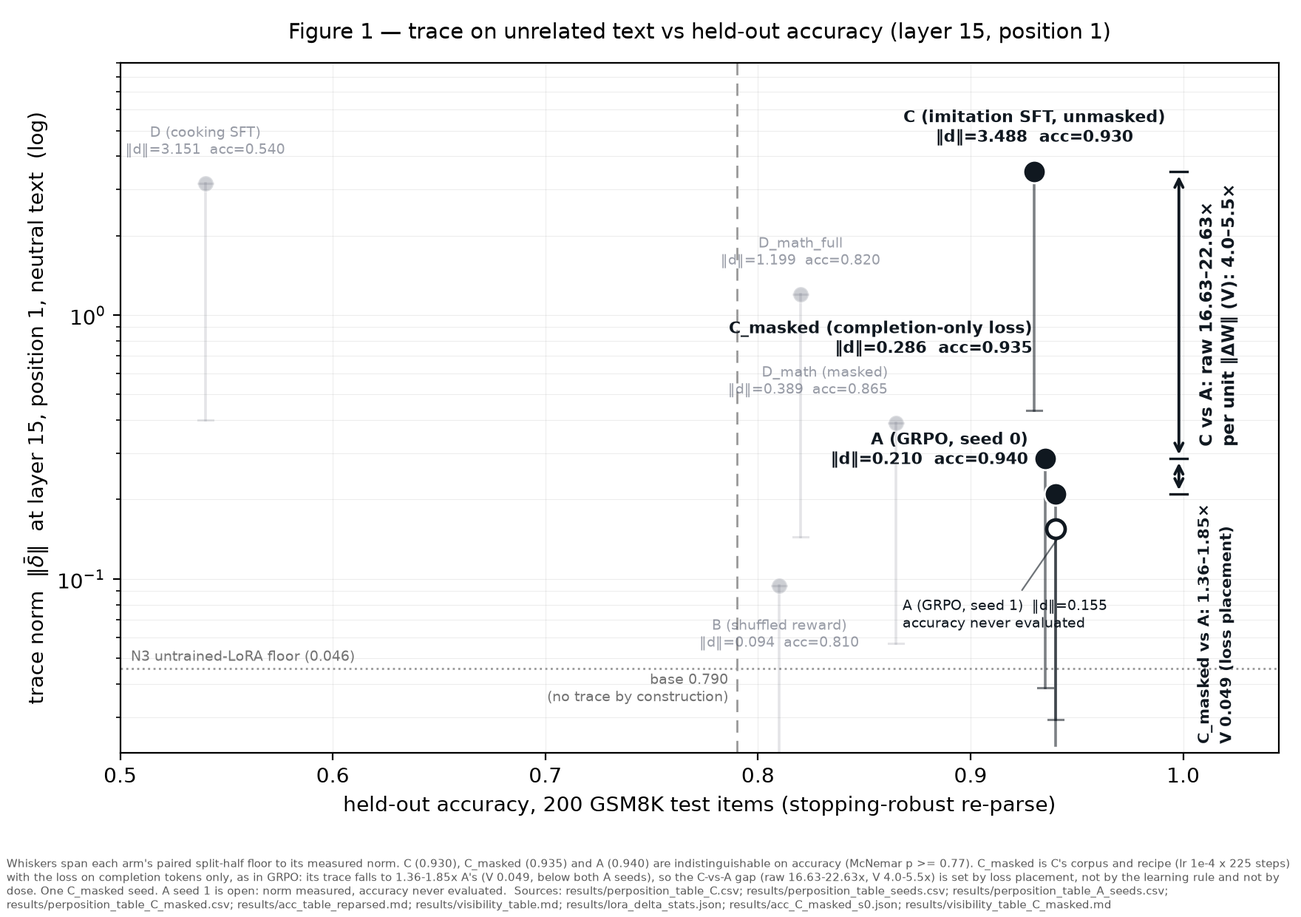
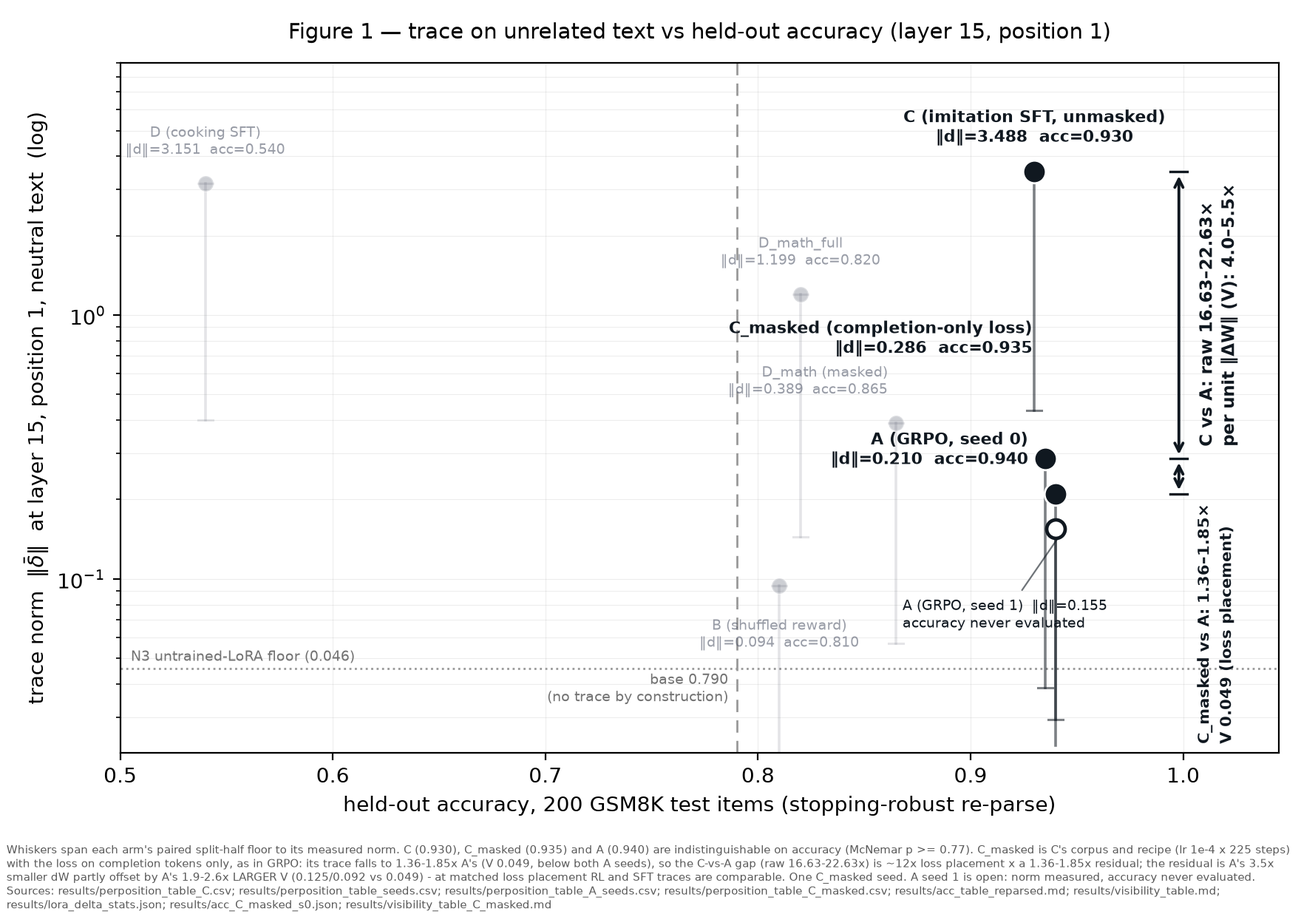
Corrected claim, remaining files (b3c1971 carried only the firewall): digest §5/§9/§12b, PROGRAM_STATE item 1 + decisions, summary §4.2/§7, Fig 1 caption, VERIFY row 58 + one-liner (run)

Changed region(s): [[0.0, 0.9194, 1.0, 1.0]]

diff --git a/analysis/make_figures.py b/analysis/make_figures.py
@@ -145,7 +145,7 @@ def fig1():
     caption(fig, f, "Whiskers span each arm's paired split-half floor to its measured norm. C (0.930), C_masked (0.935) and A (0.940) "
                     "are indistinguishable on accuracy (McNemar p >= 0.77). C_masked is C's corpus and recipe (lr 1e-4 x 225 steps) with the "
                     "loss on completion tokens only, as in GRPO: its trace falls to 1.36-1.85x A's (V 0.049, below both A seeds), so the "
-                    "C-vs-A gap (raw 16.63-22.63x, V 4.0-5.5x) is set by loss placement, not by the learning rule and not by dose. "
+                    "C-vs-A gap (raw 16.63-22.63x) is ~12x loss placement x a 1.36-1.85x residual; the residual is A's 3.5x smaller dW partly offset by A's 1.9-2.6x LARGER V (0.125/0.092 vs 0.049) - at matched loss placement RL and SFT traces are comparable. "
                     "One C_masked seed. A seed 1 is open: norm measured, accuracy never evaluated.")
     fig.savefig(FIGS / f"{f}.png", dpi=200)
     plt.close(fig)

diff --git a/docs/RESULTS_DIGEST.md b/docs/RESULTS_DIGEST.md
@@ -93,7 +93,7 @@ V = ‖d_neutral,p1‖ / ‖ΔW‖_F — activation-space trace per unit of para
 | N3 (untrained floor) | 0.046 | 2.069 | 0.188 | 0.0377 | 0.0221 | 0.0908 |
 
 **Caveat, not a headline — V is not seed-stable for A.** Cross-seed V(neutral) ratios: D 1.019 (0.3837 / 0.3910), D_math_full 1.058 (0.1789 / 0.1893), **A 1.363 (0.1252 / 0.0919)**, **C 1.003 (0.5010 / 0.5027)**. A's two adapters have near-identical ‖ΔW‖_F (1.675 / 1.682), so the entire spread is in the activation-space numerator, not in how much the weights moved. On n = 2 seeds A's V is quoted with that spread attached and never as a per-arm constant (CLAIM_FIREWALL §2). D's, D_math_full's and C's V are seed-stable to within 6% (C to within 0.4%).
-Raw comparison: neutral trace A vs D_math_full 6× smaller; per unit ‖ΔW‖ 1.4× smaller; vs D 3× smaller. **C vs A, four seed pairs (C s0/s1 × A s0/s1): V **4.0–5.5× (four (C, A) seed pairs: 4.00, 5.45, 4.01, 5.47)** per unit ‖ΔW‖_F was the learning-rule candidate (resolved below); the raw ratios 16.63× / 22.57× / 16.68× / 22.63× (`results/trace_ratio_C_A_seeds.csv`) are descriptive. **Dose is not matched and this is the primary open confound.** C was trained at lr 1e-4 × 225 SFT steps (lr×steps = 2.25e-2); A at lr 3e-5 × 150 GRPO steps (4.5e-3) — a **5.0× lr×steps mismatch**. The raw trace ratio factorises exactly as ‖ΔW‖_F × V: **16.63× = 4.157× (‖ΔW‖) × 4.001× (V)** against A seed 0, and **22.57× = 4.139× × 5.453×** against A seed 1 (C seed 1: 16.68× = 4.154 × 4.015; 22.63× = 4.137 × 5.470). The ~4.2× weight-change factor is what a 5× lr×steps mismatch would predict; the raw 16.63–22.63× is descriptive only. A dose-matched C family was not run. **Loss placement (§12b): V is 0.059 for masked math SFT, below both A seeds, and 0.179 for the same corpus unmasked at unchanged ‖ΔW‖_F; C was trained unmasked while GRPO's loss touches only completion tokens.** **Resolved 2026-09-05 03:05 by C_masked (§9, §12b; `results/REPLICATION_REPORT_C_masked.md`): V(C_masked) = 0.049 ≤ 0.18 → loss placement explains most of the C-vs-A gap.** The primary reading is loss placement: prompt-token supervision gives a large readable trace, completion-only supervision (GRPO, masked SFT) a small one, at matched accuracy. The learning-rule reading is **not supported by the decisive test**. The dose confound is **excluded as the explanation** — C_masked has C's dose (lr 1e-4 × 225 steps, ‖ΔW‖_F 5.84, 84 % of C's) and its trace is 0.286, i.e. **1.36–1.85× A's (0.286/0.210, 0.286/0.155; ≈1.4–1.9×)** against 16.63–22.63× for unmasked C. One C_masked seed; hedged. **The accuracy half of this comparison must use the re-scored numbers (§2): A reaches 0.94 where the base is already 0.79, not 0.14, so "A achieved +0.80 accuracy with a 4× smaller ‖ΔW‖" is not a sayable claim.**
+Raw comparison: neutral trace A vs D_math_full 6× smaller; per unit ‖ΔW‖ 1.4× smaller; vs D 3× smaller. **C vs A, four seed pairs (C s0/s1 × A s0/s1): V **4.0–5.5× (four (C, A) seed pairs: 4.00, 5.45, 4.01, 5.47)** per unit ‖ΔW‖_F was the learning-rule candidate (resolved below); the raw ratios 16.63× / 22.57× / 16.68× / 22.63× (`results/trace_ratio_C_A_seeds.csv`) are descriptive. **Dose is not matched and this is the primary open confound.** C was trained at lr 1e-4 × 225 SFT steps (lr×steps = 2.25e-2); A at lr 3e-5 × 150 GRPO steps (4.5e-3) — a **5.0× lr×steps mismatch**. The raw trace ratio factorises exactly as ‖ΔW‖_F × V: **16.63× = 4.157× (‖ΔW‖) × 4.001× (V)** against A seed 0, and **22.57× = 4.139× × 5.453×** against A seed 1 (C seed 1: 16.68× = 4.154 × 4.015; 22.63× = 4.137 × 5.470). The ~4.2× weight-change factor is what a 5× lr×steps mismatch would predict; the raw 16.63–22.63× is descriptive only. A dose-matched C family was not run. **Loss placement (§12b): V is 0.059 for masked math SFT, below both A seeds, and 0.179 for the same corpus unmasked at unchanged ‖ΔW‖_F; C was trained unmasked while GRPO's loss touches only completion tokens.** **Resolved 2026-09-05 03:05 by C_masked (§9, §12b; `results/REPLICATION_REPORT_C_masked.md`): V(C_masked) = 0.049 ≤ 0.18 → loss placement explains most of the C-vs-A gap.** The primary reading, corrected 2026-09-05 after the independent evaluator's catch: **The size of a fine-tune's readable activation-difference trace on unrelated text is set by where the loss is placed, not by the learning rule: masking prompt tokens removes ~92 % of imitation SFT's trace at unchanged accuracy and dose, and lands it beside GRPO — same magnitude within 2×, same direction (cos 0.62, vs 0.68 between GRPO's own seeds), same format-shaped Patchscope readout. At matched loss placement, RL and SFT traces are comparable; GRPO's absolute trace is small mainly because its weight update is small.** **Decomposition (the only one the table supports):** the 16.63–22.63× C-vs-A gap = **~12× from loss placement** (3.488 → 0.286 at unchanged accuracy and dose) × **1.36–1.85× residual**; the residual is A's smaller ‖ΔW‖_F (5.84 vs 1.68 / 1.68 = **3.5×**) partly offset by A's *larger* V (0.125 / 0.092 vs 0.049 = **2.56× / 1.88×**). **Per unit of weight change GRPO leaves *more* trace than masked imitation, not less** — so "GRPO never supervises prompts, which is why its trace is hard to detect" is contradicted by the table and is not sayable (overclaim caught by the independent evaluator, 2026-09-05). The learning-rule reading is **not supported by the decisive test**. The dose confound is **excluded as the explanation** — C_masked has C's dose (lr 1e-4 × 225 steps, ‖ΔW‖_F 5.84, 84 % of C's) and its trace is 0.286, i.e. **1.36–1.85× A's (0.286/0.210, 0.286/0.155; ≈1.4–1.9×)** against 16.63–22.63× for unmasked C. One C_masked seed; hedged. **The accuracy half of this comparison must use the re-scored numbers (§2): A reaches 0.94 where the base is already 0.79, not 0.14, so "A achieved +0.80 accuracy with a 4× smaller ‖ΔW‖" is not a sayable claim.**
 
 ## 6. Token readouts (results/patchscope_*.json, results/token_relevance_*.json)
 Patchscope = Minder identity-prompt protocol (3 triples, replace `?` residual at block L with λ·δ̂, δ̂ rescaled to η^ft, 30 λ, top-16384 ∩, top-20). Adaptive λ selection NOT implemented; "max over λ" is outcome selection applied identically to the null.
@@ -123,7 +123,7 @@ A seed 0, neutral p1: norm 0.127 (step 25) → 0.210 (step 150), cos to final 0.
 - Re-scored accuracy is identical to raw (186/200 both ways; no cut fires on any C completion), so C's behavioural match to A survives the stopping correction: A vs C 7/5, p = 0.774 under both parsers.
 - Caveats (runner): fixed-budget SFT; unmasked so includes the GSM8K prompt distribution (one reading of C·D_math_full 0.55–0.75); inherits A's surface formatting.
 - **C seed 1 (replication, separate pod, fresh base cache bit-identical to the original; results/REPLICATION_REPORT.md).** Held-out **185/200 = 0.925** under both parsers (no cut fires); vs C s0 2/3, p = 1.00; vs A s0 3/6, p = 0.51 — still behaviourally matched to A. Geometry L15 (raw ‖d‖ / floor / constancy): neutral p1 **3.498** / 0.444 / 0.275, p2 2.484 / 0.420 / 0.171; math p1 5.204 / 0.162 / 0.631, p2 5.141 / 0.394 / 0.463; math/neutral 1.49 / 2.07. **‖ΔW‖_F = 6.958**, max module 0.685 (same module as seed 0), top σ 0.5786, **V(neutral) = 0.5027** (seed 0: 0.5010). Cosines p1 / p2: **C s1·C s0 0.983 / 0.972 (neutral), 0.969 / 0.984 (math)**; C s1·A s0 0.504 / 0.416 (neutral), 0.280 / 0.543 (math); C s1·A s1 0.481 / 0.410 (neutral), 0.301 / 0.569 (math); for reference C s0·A s1 0.483 / 0.403. Patchscope λ=1 (results/patchscope_C_s1_step225_L15.json, p1 only): neutral `\n, =, 0, 1, |, 2, -, at, ., 8`; math `\n, -, target, →, 0, 4, |, =, 8, >` — format symbols and digits again, no math vocabulary. **Every C-seed-1 quantity is within 2 % of seed 0 (accuracy 0.925 vs 0.930, trace 3.498 vs 3.488, ‖ΔW‖_F 6.958 vs 6.963, V 0.5027 vs 0.5010, cosine to A 0.504 vs 0.505).** Not run for seed 1: p2–4 Patchscope, L11/L19, steering, module-family split.
-- **C_masked — the decisive loss-placement test (R1, separate pod, $2.01; `results/REPLICATION_REPORT_C_masked.md`).** Same corpus (`data/C_samples.jsonl` sha 78022b70…), same recipe as C (lr 1e-4, 225 steps, batch 8, r 32/α 64, seed 0), **loss on completion tokens + EOS only** — the mechanism D_math used and the placement GRPO has; supervised fraction of selected tokens **0.726** (`results/supervised_fraction_C_masked.json`). Held-out **187/200 = 0.935 under both parsers** (no cut fires); vs A 4/5 p = 1.00, vs C s0 5/4 p = 1.00, vs D_math 60/5 raw → 21/7 re-scored p = 0.013. Geometry L15 (raw ‖d‖ / floor / constancy): neutral p1 **0.286** / 0.039 / 0.252, p2 0.257 / 0.042 / 0.189; math p1 0.645 / 0.014 / 0.766, p2 0.651 / 0.086 / 0.310; math/neutral 2.26 / 2.53 (A: 2.30 / 2.78). **‖ΔW‖_F = 5.844** (84 % of C's 6.963), max module 0.551 (`layers.2.mlp.up_proj`), top σ 0.3550 → **V(neutral) = 0.049, below both A seeds (0.125 / 0.092) and below masked D_math (0.059)**; the 12× drop in the neutral trace (3.49 → 0.29) at a 16 % drop in ‖ΔW‖ is not a weight-norm effect. Trace ratio to A at neutral p1 **1.36 / 1.85** (`results/perposition_table_C_masked_ratio.csv`). Cosines p1 / p2 (`results/perposition_table_C_masked_cosine.csv`): **C_masked·A s0 0.624 / 0.584 (neutral)**, 0.570 / 0.743 (math); ·A s1 0.494 / 0.436, 0.521 / 0.726; ·C s0 0.320 / 0.268, 0.362 / 0.540; ·C s1 0.297 / 0.252; ·D_math 0.187; ·D_math_full 0.230; ·N1 halves −0.068. C_masked is closer in direction to A (0.62, about A's own cross-seed 0.68) than to unmasked C (0.32). Patchscope λ=1 p1: neutral `→ 1 0 \n 2 9 8 - 5 3 6 7 … 4 Let -> > now I lets`; math function words and symbols (`high < we { true our …`). **Decision line (pre-stated, §12b): V = 0.049 ≤ 0.18 → loss placement explains most of the C-vs-A gap.** Not run: seed 1, other layers/positions, emergence, steering, relevance grading.
+- **C_masked — the decisive loss-placement test (R1, separate pod, $2.01; `results/REPLICATION_REPORT_C_masked.md`).** Same corpus (`data/C_samples.jsonl` sha 78022b70…), same recipe as C (lr 1e-4, 225 steps, batch 8, r 32/α 64, seed 0), **loss on completion tokens + EOS only** — the mechanism D_math used and the placement GRPO has; supervised fraction of selected tokens **0.726** (`results/supervised_fraction_C_masked.json`). Held-out **187/200 = 0.935 under both parsers** (no cut fires); vs A 4/5 p = 1.00, vs C s0 5/4 p = 1.00, vs D_math 60/5 raw → 21/7 re-scored p = 0.013. Geometry L15 (raw ‖d‖ / floor / constancy): neutral p1 **0.286** / 0.039 / 0.252, p2 0.257 / 0.042 / 0.189; math p1 0.645 / 0.014 / 0.766, p2 0.651 / 0.086 / 0.310; math/neutral 2.26 / 2.53 (A: 2.30 / 2.78). **‖ΔW‖_F = 5.844** (84 % of C's 6.963), max module 0.551 (`layers.2.mlp.up_proj`), top σ 0.3550 → **V(neutral) = 0.049, below both A seeds (0.125 / 0.092) and below masked D_math (0.059)**; the 12× drop in the neutral trace (3.49 → 0.29) at a 16 % drop in ‖ΔW‖ is not a weight-norm effect. Trace ratio to A at neutral p1 **1.36 / 1.85** (`results/perposition_table_C_masked_ratio.csv`). Cosines p1 / p2 (`results/perposition_table_C_masked_cosine.csv`): **C_masked·A s0 0.624 / 0.584 (neutral)**, 0.570 / 0.743 (math); ·A s1 0.494 / 0.436, 0.521 / 0.726; ·C s0 0.320 / 0.268, 0.362 / 0.540; ·C s1 0.297 / 0.252; ·D_math 0.187; ·D_math_full 0.230; ·N1 halves −0.068. C_masked is closer in direction to A (0.62, about A's own cross-seed 0.68) than to unmasked C (0.32). Patchscope λ=1 p1: neutral `→ 1 0 \n 2 9 8 - 5 3 6 7 … 4 Let -> > now I lets`; math function words and symbols (`high < we { true our …`). **Decision line (pre-stated, §12b): V = 0.049 ≤ 0.18 → loss placement explains most of the C-vs-A gap.** Read correctly: V(A) 0.125 / 0.092 is *above* V(C_masked) 0.049, so per unit ‖ΔW‖ GRPO leaves more trace than masked imitation; A's absolute trace is small because ‖ΔW‖_F is 1.68 against C_masked's 5.84 (3.5×), and that outweighs A's 1.9–2.6× larger V — giving the 1.36–1.85× residual. Not run: seed 1, other layers/positions, emergence, steering, relevance grading.
 - **Scorecard note (theory prediction 2, P1; `docs/T1_THEORY_BLOCKS.md` Block 3).** A decodes to digits and relation symbols rather than topic words — that half was observed. But the same prediction said C would decode to math vocabulary, and both C seeds decode to digits, `=`, `→`, `|` with no math words (relevance grading for C not run, so this is by reading the lists): **P1 is half-observed; the discriminating half failed** — the format shape comes from the data, not from the learning rule.
 - Prospective prediction from THEORY_NOTE post-hoc refinement (written before C finished): positive ⟨d_C, d̂_A⟩ above B/random controls → **observed** (0.50 vs −0.07 / 0.10; C seed 1 0.504 / 0.481 against A s0 / A s1). This is a cosine, so it is unaffected by the dose mismatch.
 
@@ -201,7 +201,7 @@ Human tags on the 68 blinded discordant items (format vs reasoning); human readi
 
 **"Bias term or something deeper?" — what this run can answer.** The mean-offset share (constancy) at neutral p1 is **A 0.258, D_math_full 0.249, D 0.277** (`results/perposition_table_C.csv`). At this dose the RL trace is **as constant as SFT's** — the preregistered P3, that RL's trace would be *less* constant, is refuted. What differs between the arms is magnitude and cross-seed reproducibility (A s0·s1 = 0.68 against 0.92–0.98 for SFT), not the form of the trace. No ablation from the fine-tuned model was run, so whether the offset is load-bearing — the "deeper" half of the question — is **untested here**, not answered negatively.
 
-**Loss placement — the second named alternative to the learning-rule reading (`docs/T2_THEORY_PASSES.md` §1.0, model M0; numbers already in §5).** Masked math SFT (D_math, loss on solution tokens only) has **V = 0.059, below both A seeds (0.125 / 0.092)**; unmasking the same corpus (D_math_full, loss on prompt + solution) takes V to **0.179 at essentially unchanged ‖ΔW‖_F (6.58 → 6.70)** — a 3× change in per-unit trace from where the loss is placed, not from how much the weights moved. C was trained **unmasked** (loss on the GSM8K prompt and the completion), whereas GRPO's loss touches only completion tokens. So the arms nearest A in loss placement show *less* per-unit trace than A, and every arm with prompt-token loss (D, D_math_full, C) shows more: the C-vs-A V gap is confounded with loss placement as well as with dose. The decisive test was a completion-only C on the same corpus and recipe (`C_masked`), with the decision line stated before it ran: **V(C_masked) ≤ 0.18 puts the gap on the side of loss placement; ≥ 0.30 leaves it with the learning rule** (`docs/T2_THEORY_PASSES.md` §1.1 and "The single experiment to run first": M0 predicted ≤ 0.18, probably ≤ 0.10). **Result (§9): V(C_masked) = 0.049 — below the line, below both A seeds and below masked D_math; trace 0.286 against A's 0.210 / 0.155 (1.36–1.85×) at C's dose (lr 1e-4 × 225, ‖ΔW‖_F 5.84). Loss placement explains most of the C-vs-A gap; the learning-rule reading is not supported by the decisive test; dose is excluded as the explanation because C_masked has C's dose and A's trace.** M0's prediction (`docs/T2_THEORY_PASSES.md` §1.1) was observed. **Limitations of this resolution:** one C_masked seed and one masking pattern (prompt masked, completion + EOS supervised, fraction 0.726); the test separates *where* the loss sits from the learning rule, but not the *content* of the supervised tokens from their *position* — a C with loss on prompt tokens only, or a masked-C seed 1, would be needed for that, and neither was run (`results/REPLICATION_REPORT_C_masked.md` "three ways wrong" 1). The C_masked-vs-A ratio (1.36–1.85×) sits near the split-half floors' scale and should be read as "near A", not "below A". What survives regardless: the cross-seed cosine contrast (C 0.97–0.98 vs A 0.68, §11), C·A = 0.50 and C_masked·A = 0.62, which are norm-free.
+**Loss placement — the second named alternative to the learning-rule reading (`docs/T2_THEORY_PASSES.md` §1.0, model M0; numbers already in §5).** Masked math SFT (D_math, loss on solution tokens only) has **V = 0.059, below both A seeds (0.125 / 0.092)**; unmasking the same corpus (D_math_full, loss on prompt + solution) takes V to **0.179 at essentially unchanged ‖ΔW‖_F (6.58 → 6.70)** — a 3× change in per-unit trace from where the loss is placed, not from how much the weights moved. C was trained **unmasked** (loss on the GSM8K prompt and the completion), whereas GRPO's loss touches only completion tokens. So the arms nearest A in loss placement show *less* per-unit trace than A, and every arm with prompt-token loss (D, D_math_full, C) shows more: the C-vs-A V gap is confounded with loss placement as well as with dose. The decisive test was a completion-only C on the same corpus and recipe (`C_masked`), with the decision line stated before it ran: **V(C_masked) ≤ 0.18 puts the gap on the side of loss placement; ≥ 0.30 leaves it with the learning rule** (`docs/T2_THEORY_PASSES.md` §1.1 and "The single experiment to run first": M0 predicted ≤ 0.18, probably ≤ 0.10). **Result (§9): V(C_masked) = 0.049 — below the line, below both A seeds and below masked D_math; trace 0.286 against A's 0.210 / 0.155 (1.36–1.85×) at C's dose (lr 1e-4 × 225, ‖ΔW‖_F 5.84). Loss placement explains most of the C-vs-A gap; the learning-rule reading is not supported by the decisive test; dose is excluded as the explanation because C_masked has C's dose and A's trace.** **Decomposition (the only one the table supports):** the 16.63–22.63× C-vs-A gap = **~12× from loss placement** (3.488 → 0.286 at unchanged accuracy and dose) × **1.36–1.85× residual**; the residual is A's smaller ‖ΔW‖_F (5.84 vs 1.68 / 1.68 = **3.5×**) partly offset by A's *larger* V (0.125 / 0.092 vs 0.049 = **2.56× / 1.88×**). **Per unit of weight change GRPO leaves *more* trace than masked imitation, not less** — so "GRPO never supervises prompts, which is why its trace is hard to detect" is contradicted by the table and is not sayable (overclaim caught by the independent evaluator, 2026-09-05). M0's prediction (`docs/T2_THEORY_PASSES.md` §1.1) was observed. **Limitations of this resolution:** one C_masked seed and one masking pattern (prompt masked, completion + EOS supervised, fraction 0.726); the test separates *where* the loss sits from the learning rule, but not the *content* of the supervised tokens from their *position* — a C with loss on prompt tokens only, or a masked-C seed 1, would be needed for that, and neither was run (`results/REPLICATION_REPORT_C_masked.md` "three ways wrong" 1). The C_masked-vs-A ratio (1.36–1.85×) sits near the split-half floors' scale and should be read as "near A", not "below A". What survives regardless: the cross-seed cosine contrast (C 0.97–0.98 vs A 0.68, §11), C·A = 0.50 and C_masked·A = 0.62, which are norm-free.
 
 **What is and is not reproducible from this repository.** Every number in the digest is recomputable today from the files in `results/` plus the committed code, and `tools/recompute_oneliners.md` gives one runnable command per VERIFY row; all 45 were run and match. What cannot be regenerated: the LoRA adapters and the activation caches, destroyed when the pod was terminated, so nothing can be re-measured at a new layer, position or snippet set without repeating the training runs; arm B's training curve, whose only source was a pod log; and N2 as a Patchscope null, which would need the model on a GPU. Two further constraints on precision: greedy bf16 decoding is not run-to-run reproducible (four executions of the same unsteered evaluation gave 24–28/200, so every accuracy carries roughly ±2 items before any test), and cap-hits are inferred from re-tokenised length rather than a stored EOS flag. Seed pairs exist for D, D_math_full, A and (as of the `replication` merge) C; C_masked is one seed. The C seed 1 and C_masked adapters survive on the Mac (untracked, `adapters/C_s1/final/`, `adapters/C_masked_s0/final/`), the others do not. The full incident ledger — sync reverts, the corrected §7 sentence, the aborted replications — is in `VERIFY.md` and `CHANGELOG.md`, not here.
 

diff --git a/PROGRAM_STATE_CURRENT.md b/PROGRAM_STATE_CURRENT.md
@@ -9,7 +9,7 @@ Does on-policy GRPO leave a readable mean activation-difference trace on unrelat
 An independent Neel-style evaluation (`docs/EVALUATION_NEEL_STYLE.md`) rated the project high-borderline-to-accept if written up well, borderline-reject as the summary currently reads: P(exploration phase) ~45 %, ~60 % with a clean own-voice summary and a C-vs-A Figure 1. Its top objection — the headline is not dose-matched — is now the first thing the write-up addresses.
 
 ## The result, as the write-up now states it
-1. **Headline (loss placement; resolved by C_masked 03:05 Sat).** **The trace is set by loss placement: prompt-token supervision → large readable trace; completion-only supervision (GRPO, masked SFT) → small trace, at matched accuracy. One C_masked seed; hedged.** Unmasked imitation SFT on A's own correct samples (C) reaches A's accuracy (0.930 vs 0.940, p = 0.77, both parsers) with a trace 16.63–22.63× A's and V 4.0–5.5×; the same corpus and recipe with completion-only loss (C_masked) reaches 0.935 (vs A 4/5, p = 1.00) with trace 0.286 = **1.36–1.85× A's**, ‖ΔW‖_F 5.84, **V 0.049** — below both A seeds and below masked D_math (0.059). **The learning-rule reading is not supported by the decisive test** (pre-stated line V ≤ 0.18 / ≥ 0.30). **The dose confound is excluded as the explanation: C_masked has C's dose (lr 1e-4 × 225) and A's trace.** C_masked·A = 0.62 (about A's own cross-seed 0.68); C_masked·C = 0.32. Limitations: one seed, one masking pattern (0.726 of tokens supervised); content-vs-position of supervision untested. Kept as background: the raw ratio factorises as ‖ΔW‖_F × V (16.63 = 4.157 × 4.001; 22.57 = 4.139 × 5.453); C's 5.0× lr×steps mismatch is a stated difference, no longer an open confound for the headline. **C is two seeds:** C s1 reproduces C s0 within 2 % on accuracy (0.925 vs 0.930, p = 1.00), trace (3.498 vs 3.488), ‖ΔW‖_F (6.958 vs 6.963) and V (0.5027 vs 0.5010), and **C s0·C s1 = 0.98 while A s0·A s1 = 0.68** — the imitation trace is a property of the data and recipe, the RL trace of the run; norm-free, so it survives every confound. With four seed pairs the raw ratio is **16.63× / 22.57× / 16.68× / 22.63×** (`results/trace_ratio_C_A_seeds.csv`) and V **4.0–5.5× (four (C, A) seed pairs: 4.00, 5.45, 4.01, 5.47)**. **Second named alternative — loss placement (`docs/T2_THEORY_PASSES.md` §1.0):** masked math SFT has V 0.059, below both A seeds; unmasking the same corpus alone takes it to 0.179 at unchanged ‖ΔW‖_F; C was trained unmasked and GRPO supervises only completion tokens. Decisive test: a completion-only C — **C_masked, run: V = 0.049 ≤ 0.18 → loss placement.** C·A = +0.505 (s0) / +0.504 (s1), above all 50 random draws; B·A = −0.13, below all 50 (orthogonal to slightly negative). "The difference is the weighting" is deleted everywhere.
+1. **Headline (loss placement; resolved by C_masked 03:05 Sat; claim sentence corrected ~03:45 after the evaluator's catch).** **The size of a fine-tune's readable activation-difference trace on unrelated text is set by where the loss is placed, not by the learning rule: masking prompt tokens removes ~92 % of imitation SFT's trace at unchanged accuracy and dose, and lands it beside GRPO — same magnitude within 2×, same direction (cos 0.62, vs 0.68 between GRPO's own seeds), same format-shaped Patchscope readout. At matched loss placement, RL and SFT traces are comparable; GRPO's absolute trace is small mainly because its weight update is small.** One C_masked seed; hedged. **Decomposition (the only one the table supports):** the 16.63–22.63× C-vs-A gap = **~12× from loss placement** (3.488 → 0.286 at unchanged accuracy and dose) × **1.36–1.85× residual**; the residual is A's smaller ‖ΔW‖_F (5.84 vs 1.68 / 1.68 = **3.5×**) partly offset by A's *larger* V (0.125 / 0.092 vs 0.049 = **2.56× / 1.88×**). **Per unit of weight change GRPO leaves *more* trace than masked imitation, not less** — so "GRPO never supervises prompts, which is why its trace is hard to detect" is contradicted by the table and is not sayable (overclaim caught by the independent evaluator, 2026-09-05). Unmasked imitation SFT on A's own correct samples (C) reaches A's accuracy (0.930 vs 0.940, p = 0.77, both parsers) with a trace 16.63–22.63× A's and V 4.0–5.5×; the same corpus and recipe with completion-only loss (C_masked) reaches 0.935 (vs A 4/5, p = 1.00) with trace 0.286 = **1.36–1.85× A's**, ‖ΔW‖_F 5.84, **V 0.049** — below both A seeds and below masked D_math (0.059). **The learning-rule reading is not supported by the decisive test** (pre-stated line V ≤ 0.18 / ≥ 0.30). **The dose confound is excluded as the explanation: C_masked has C's dose (lr 1e-4 × 225) and A's trace.** C_masked·A = 0.62 (about A's own cross-seed 0.68); C_masked·C = 0.32. Limitations: one seed, one masking pattern (0.726 of tokens supervised); content-vs-position of supervision untested. Kept as background: the raw ratio factorises as ‖ΔW‖_F × V (16.63 = 4.157 × 4.001; 22.57 = 4.139 × 5.453); C's 5.0× lr×steps mismatch is a stated difference, no longer an open confound for the headline. **C is two seeds:** C s1 reproduces C s0 within 2 % on accuracy (0.925 vs 0.930, p = 1.00), trace (3.498 vs 3.488), ‖ΔW‖_F (6.958 vs 6.963) and V (0.5027 vs 0.5010), and **C s0·C s1 = 0.98 while A s0·A s1 = 0.68** — the imitation trace is a property of the data and recipe, the RL trace of the run; norm-free, so it survives every confound. With four seed pairs the raw ratio is **16.63× / 22.57× / 16.68× / 22.63×** (`results/trace_ratio_C_A_seeds.csv`) and V **4.0–5.5× (four (C, A) seed pairs: 4.00, 5.45, 4.01, 5.47)**. **Second named alternative — loss placement (`docs/T2_THEORY_PASSES.md` §1.0):** masked math SFT has V 0.059, below both A seeds; unmasking the same corpus alone takes it to 0.179 at unchanged ‖ΔW‖_F; C was trained unmasked and GRPO supervises only completion tokens. Decisive test: a completion-only C — **C_masked, run: V = 0.049 ≤ 0.18 → loss placement.** C·A = +0.505 (s0) / +0.504 (s1), above all 50 random draws; B·A = −0.13, below all 50 (orthogonal to slightly negative). "The difference is the weighting" is deleted everywhere.
 2. **Assay validated (Gate 1).** Cooking SFT decodes via Patchscope to food words (7–8/20 vs null ≤ 2); norm 3.15 vs floor 0.40; position 0 excluded as a generic first-token offset. SFT arms reproduce across seeds (0.92–0.98).
 3. **The RL trace is small, format-shaped, as constant as SFT's, and does not reproduce across seeds** (A s0·s1 = 0.68). Mean-offset share A 0.258 vs D_math_full 0.249 vs D 0.277 — **this is the answer to "bias term or deeper?": at this dose the RL trace is as constant as SFT's; what differs is magnitude and reproducibility. No ablation from the fine-tuned model was run, so "deeper" is untested here.** Source: `results/perposition_table_C.csv` (constancy column, neutral p1).
 4. **Gate 2 survives, shrunk, with tags.** A vs D_math raw 62/6 → re-scored **22/7 (p = 0.008, suggestive only by Neel's stated standard)**. Of the 68 discordant items: D_math 42 FORMAT / 20 REASONING; A 0 FORMAT / 6 REASONING. Narrow reasoning-gain claim sayable (firewall §1). The 7th re-scored D_math-only item is a rescued one.
@@ -27,7 +27,7 @@ An independent Neel-style evaluation (`docs/EVALUATION_NEEL_STYLE.md`) rated the
 Adapters/caches destroyed (numbers re-derivable only by retraining); arm B training curve unverifiable (pod log destroyed; eval corroborates qualitatively); three result files sync-reverted and regenerated; digest §7 p0 sentence corrected; digest was untracked until Fri 14:00; lexical baseline below null; ±2-item decode noise; blinding leak; non-blind concordance; two replication aborts + one accidental $0.09 probe pod; agent clock drift 2h15m (durations from agents are not evidence; gates are absolute times).
 
 ## Decisions in force
-Both parsers or neither, everywhere. The raw ratio is "16.63–22.63×" (two decimals, four seed pairs, from `results/trace_ratio_C_A_seeds.csv`) always with C_masked's V 0.049 and 1.36–1.85× in the same paragraph; V 4.0–5.5× (four (C, A) seed pairs: 4.00, 5.45, 4.01, 5.47) is quoted as the unmasked-vs-A factor, never as a learning-rule claim. **Primary reading: loss placement. "Learning rule" only as the refuted alternative. Dose "excluded as the explanation (C_masked has C's dose)".** (Decision 2026-09-05 ~03:15: the earlier "5.4" was a rounding slip.) "C two seeds", never "C single seed". Steering is a negative result, stated as such. "Orthogonal to slightly negative", never "anti-aligned". Steering labelled raw-parser. p = 0.008 / 0.013 labelled suggestive. One story: C-vs-A; the parser confound is one paragraph under Gate 2. Fig 1 = C-vs-A, everything else faded (F1 ⏳). Claim class: narrow, hedged, one model, one task.
+Both parsers or neither, everywhere. The raw ratio is "16.63–22.63×" (two decimals, four seed pairs, from `results/trace_ratio_C_A_seeds.csv`) always with C_masked's V 0.049 and 1.36–1.85× in the same paragraph; V 4.0–5.5× (four (C, A) seed pairs: 4.00, 5.45, 4.01, 5.47) is quoted as the unmasked-vs-A factor, never as a learning-rule claim. **Primary reading: loss placement, stated with the corrected claim sentence (firewall §1). "Learning rule" only as the refuted alternative. Dose "excluded as the explanation (C_masked has C's dose)". Never "completion-only supervision → small trace" as a cause: V(A) > V(C_masked); A's trace is small because ‖ΔW‖ is small.** (Decision 2026-09-05 ~03:15: the earlier "5.4" was a rounding slip.) "C two seeds", never "C single seed". Steering is a negative result, stated as such. "Orthogonal to slightly negative", never "anti-aligned". Steering labelled raw-parser. p = 0.008 / 0.013 labelled suggestive. One story: C-vs-A; the parser confound is one paragraph under Gate 2. Fig 1 = C-vs-A, everything else faded (F1 ⏳). Claim class: narrow, hedged, one model, one task.
 
 ## Open (see OPEN_TASKS_CURRENT.md; prompts in prompts/round5/)
 - **T1** theory chat → four blocks (bias-vs-deeper; dose arithmetic; scorecard; why-interesting) → Guiv rewrites in own voice. ⏳

diff --git a/docs/RESEARCH_SUMMARY.md b/docs/RESEARCH_SUMMARY.md
@@ -46,10 +46,10 @@ A post-hoc refinement (written after the A/B readout, before C finished) predict
 ### 4.1 The assay works, and position 0 does not (Gate 1)
 Cooking SFT's trace at positions 1–2 on neutral text decodes via Patchscope to food vocabulary — *rice, tea, banana, tomato, sugar* at L15; *fried, cooked, salt, rice, sour* at L19 — with 7–8/20 content-relevant tokens against ≤ 2/20 for the null under identical selection. Norm 3.15 vs split-half floor 0.40. D·D_math ≈ 0.07 (domain-specific). SFT arms reproduce across seeds: D 0.95–0.98, D_math_full 0.92–0.99.
 
-### 4.2 The headline: imitation at matched accuracy leaves a far larger trace than the RL it imitates
-C reaches A's held-out accuracy — 0.930 vs 0.940, McNemar 7/5, p = 0.77, **identical under both parsers** (no cut fires on any A or C completion). **Per unit of weight change, C leaves 4.0× more trace than A seed 0 and 5.4× more than A seed 1 (V = 0.501 vs 0.125 / 0.092) — that per-unit factor is the claim.** The raw neutral-text norms are 3.49 vs 0.21 / 0.155, a 16.63× / 22.57× ratio, which is descriptive: it factorises exactly as ‖ΔW‖_F × V (4.157 × 4.001 and 4.139 × 5.453). **The ‖ΔW‖ factor is not dose-matched — C ran at lr 1e-4 × 225 SFT steps against A's 3e-5 × 150 GRPO steps, a 5.0× lr×steps mismatch that plausibly accounts for it, and this is the primary open confound.** C is half-aligned with A (cos +0.505, above all 50 random draws); B is orthogonal to slightly negative (−0.13, below all 50 draws). Same data, same behaviour, different learning rule; a dose-matched C family was not run.
+### 4.2 The headline: the trace is set by where the loss is placed, not by the learning rule
+**The size of a fine-tune's readable activation-difference trace on unrelated text is set by where the loss is placed, not by the learning rule: masking prompt tokens removes ~92 % of imitation SFT's trace at unchanged accuracy and dose, and lands it beside GRPO — same magnitude within 2×, same direction (cos 0.62, vs 0.68 between GRPO's own seeds), same format-shaped Patchscope readout. At matched loss placement, RL and SFT traces are comparable; GRPO's absolute trace is small mainly because its weight update is small.** (Corrected 2026-09-05; supersedes the learning-rule headline below.) **Decomposition (the only one the table supports):** the 16.63–22.63× C-vs-A gap = **~12× from loss placement** (3.488 → 0.286 at unchanged accuracy and dose) × **1.36–1.85× residual**; the residual is A's smaller ‖ΔW‖_F (5.84 vs 1.68 / 1.68 = **3.5×**) partly offset by A's *larger* V (0.125 / 0.092 vs 0.049 = **2.56× / 1.88×**). **Per unit of weight change GRPO leaves *more* trace than masked imitation, not less** — so "GRPO never supervises prompts, which is why its trace is hard to detect" is contradicted by the table and is not sayable (overclaim caught by the independent evaluator, 2026-09-05). Evidence: C reaches A's held-out accuracy — 0.930 vs 0.940, McNemar 7/5, p = 0.77, **identical under both parsers** (no cut fires on any A or C completion). Per unit of weight change, unmasked C leaves 4.0–5.5× (four (C, A) seed pairs: 4.00, 5.45, 4.01, 5.47) more trace than A (V = 0.501 vs 0.125 / 0.092); C_masked — same corpus, recipe and dose, loss on completion tokens only — reaches 0.935 (vs A 4/5, p = 1.00) with trace 0.286 (1.36–1.85× A's), ‖ΔW‖_F 5.84, V 0.049, cos to A 0.62. Superseded framing, kept for the record: The raw neutral-text norms are 3.49 vs 0.21 / 0.155, a 16.63× / 22.57× ratio, which is descriptive: it factorises exactly as ‖ΔW‖_F × V (4.157 × 4.001 and 4.139 × 5.453). **The ‖ΔW‖ factor is not dose-matched — C ran at lr 1e-4 × 225 SFT steps against A's 3e-5 × 150 GRPO steps, a 5.0× lr×steps mismatch that plausibly accounts for it, and this is the primary open confound.** C is half-aligned with A (cos +0.505, above all 50 random draws); B is orthogonal to slightly negative (−0.13, below all 50 draws). Same data, same behaviour, different learning rule; a dose-matched C family was not run.
 
-C is two seeds (seed 1: accuracy 0.925, trace 3.498, ‖ΔW‖_F 6.958, V 0.5027, C s0·C s1 = 0.98 — all within 2 % of seed 0; four-pair raw ratio 16.63–22.63×), fixed-budget (12 % of its corpus), unmasked, inherits A's formatting, and C·D_math_full = 0.55 leaves an SFT/corpus reading open. Loss placement is the second named alternative to the learning-rule reading: masked math SFT has V 0.059, below both A seeds, unmasking alone takes it to 0.179 at unchanged ‖ΔW‖_F, C was trained unmasked and GRPO supervises only completion tokens; the decisive test is a completion-only C (⏳ C_masked). One 4B base model, one task.
+C is two seeds (seed 1: accuracy 0.925, trace 3.498, ‖ΔW‖_F 6.958, V 0.5027, C s0·C s1 = 0.98 — all within 2 % of seed 0; four-pair raw ratio 16.63–22.63×), fixed-budget (12 % of its corpus), unmasked, inherits A's formatting, and C·D_math_full = 0.55 leaves an SFT/corpus reading open. Loss placement is the second named alternative to the learning-rule reading: masked math SFT has V 0.059, below both A seeds, unmasking alone takes it to 0.179 at unchanged ‖ΔW‖_F, C was trained unmasked and GRPO supervises only completion tokens; the decisive test, a completion-only C (C_masked), ran on 2026-09-05 and fell on the loss-placement side (V 0.049 ≤ 0.18, pre-stated line). One C_masked seed, one masking pattern; content-vs-position of supervision untested. One 4B base model, one task.
 
 ### 4.3 The RL trace is small, format-shaped, and does not reproduce well across seeds
 A's neutral-text trace is 0.21 / 0.155 across seeds (both above their floors of ~0.03). It decodes to numerals and relation symbols (`0 → 1 9 > < ∈ ≥ ≤ ==`), not topic words. Within a run the direction is fixed by step 25 (cos 0.87 to final). **Across seeds it is not: A s0 · A s1 = 0.68** at step 150 against 0.92–0.98 for the SFT arms. V for A is correspondingly unstable (0.125 / 0.092 at identical ‖ΔW‖_F). Ordering D > D_math_full > A > B > N3 holds at all three layers.
@@ -83,4 +83,4 @@ Math SFT is input-gated (math/neutral norm ratio 6–13×), cooking SFT is not (
 PREREG named three nulls; N2 (50 random directions at matched norm) was computed on day 1 and never reported. As saved it holds logit-lens lists, not Patchscope, so it cannot null the headline relevance statistic, and cannot be regenerated. It *is* the null H3 names, and under it H3 fails on the primary snippet set (§2). Reported as a preregistered negative result.
 
 ## 7. What this project is and is not
-It is a narrow, hedged result on one model and one task with the imitation arm at n = 2: at matched accuracy, imitation SFT leaves **4.0–5.5× (four (C, A) seed pairs: 4.00, 5.45, 4.01, 5.47) more trace per unit of weight change** than the GRPO run it imitates. The raw 16.6–22.6× norm ratio is descriptive and **not dose-matched** — a 5.0× lr×steps mismatch plausibly explains its ‖ΔW‖ half — so the learning-rule reading rests on the per-unit factor, not the raw gap. It is also a worked example of a metric artifact caught before write-up by reading the data, with three independent methods converging on the same items. It is not evidence that "RL leaves no trace," not a replication of Minder, not a causal claim about steering, and not a test of the SGD-specific theory.
+It is a narrow, hedged result on one model and one task (imitation arm n = 2, masked imitation n = 1): **The size of a fine-tune's readable activation-difference trace on unrelated text is set by where the loss is placed, not by the learning rule: masking prompt tokens removes ~92 % of imitation SFT's trace at unchanged accuracy and dose, and lands it beside GRPO — same magnitude within 2×, same direction (cos 0.62, vs 0.68 between GRPO's own seeds), same format-shaped Patchscope readout. At matched loss placement, RL and SFT traces are comparable; GRPO's absolute trace is small mainly because its weight update is small.** The raw 16.63–22.63× C-vs-A norm ratio is descriptive; ~12× of it is loss placement and the 1.36–1.85× residual is A's 3.5× smaller ‖ΔW‖_F partly offset by its 1.9–2.6× larger V. It is also a worked example of a metric artifact caught before write-up by reading the data, with three independent methods converging on the same items. It is not evidence that "RL leaves no trace," not a replication of Minder, not a causal claim about steering, and not a test of the SGD-specific theory.

diff --git a/tools/recompute_oneliners.md b/tools/recompute_oneliners.md
@@ -3,7 +3,7 @@
 One runnable recompute per row of `VERIFY.md`. Each recomputes that number from its `results/` file, so Guiv can
 fill the "how Guiv recomputed it" column without trusting the agent's arithmetic. Run from the repository root.
 Rows 41–45 are the integrity rows: three files a sync silently reverted, one corrected claim, and one unverifiable claim.
-Rows 46–50 are the C seed-1 replication and the four-pair V range; rows 51–57 are C_masked (the loss-placement test) (merged from branch `replication` at c852658).
+Rows 46–50 are the C seed-1 replication and the four-pair V range; rows 51–58 are C_masked (the loss-placement test) and the corrected gap decomposition (merged from branch `replication` at c852658).
 
 ```bash
 # use the project venv if torch/transformers are needed (rows 14, 16)
@@ -552,5 +552,21 @@ Expected: **0.726 = 1,452,261 / 1,999,870**
 python3 -c "
 import json; s=json.load(open('results/supervised_fraction_C_masked.json'))
 print(s['supervised_tokens_completion_plus_eos'], '/', s['selected_tokens'], '=', round(s['supervised_tokens_completion_plus_eos']/s['selected_tokens'],4), '| file says', round(s['fraction_supervised'],4), '| rows', s['n_selected_rows'])"
+```
+
+## Row 58 — decomposition of the C-vs-A gap (loss placement × residual; V(A) > V(C_masked))
+
+Expected: **12.2× × (1.36, 1.85); residual = 3.49/2.56 and 3.47/1.88; V(A) 0.125/0.092 > V(C_masked) 0.049**
+
+```bash
+python3 -c "
+import csv,json
+n={r['arm']:float(r['raw_norm']) for r in csv.DictReader(open('results/perposition_table_C_masked.csv')) if r['set']=='neutral' and r['position']=='1'}
+a={r['a']:float(r['norm_a']) for r in csv.DictReader(open('results/trace_ratio_C_A_seeds.csv')) if r['set']=='neutral' and r['position']=='1'}
+cC=[float(r['norm_c']) for r in csv.DictReader(open('results/trace_ratio_C_A_seeds.csv')) if r['set']=='neutral' and r['position']=='1' and r['c']=='C_s0'][0]
+L=json.load(open('results/lora_delta_stats.json')); wm=json.load(open('results/lora_delta_stats_C_masked.json'))['C_masked']['delta_W_fro_total']; wA={'A_s0':L['A']['delta_W_fro_total'],'A_s1':L['A_s1']['delta_W_fro_total']}
+m=n['C_masked']; print('loss-placement factor C/C_masked =',round(cC/m,2))
+for k in ('A_s0','A_s1'):
+    print(k,'residual C_masked/A =',round(m/a[k],2),'| dW ratio =',round(wm/wA[k],2),'| V(A)/V(C_masked) =',round((a[k]/wA[k])/(m/wm),2),'| check dW/V =',round((wm/wA[k])/((a[k]/wA[k])/(m/wm)),2))"
 ```
 

diff --git a/VERIFY.md b/VERIFY.md
@@ -1,7 +1,7 @@
 # VERIFY.md — verification ledger (feeds form Q16)
 
 Scaffold regenerated 2026-09-04 23:59 CEST by the pod runner, keyed to `docs/RESULTS_DIGEST.md`.
-One row per headline number in the current digest (rows 46–50 added 2026-09-05 at the `replication` merge (C seed 1, V-range string); rows 51–57 at the C_masked merge (1d33df3)). **The agent filled only the first four columns.** The last three are Guiv's and are deliberately empty:
+One row per headline number in the current digest (rows 46–50 added 2026-09-05 at the `replication` merge (C seed 1, V-range string); rows 51–58 at the C_masked merge (1d33df3; 58 = the corrected decomposition)). **The agent filled only the first four columns.** The last three are Guiv's and are deliberately empty:
 a number is not verified until he has recomputed it himself and read raw items behind it. Recompute one-liners: `tools/recompute_oneliners.md`.
 The prior ledger (agents 01–03 and the pod runner's working notes) is preserved below under "Historical ledger".
 
@@ -64,6 +64,7 @@ The prior ledger (agents 01–03 and the pod runner's working notes) is preserve
 | 55 | C_masked held-out accuracy, both parsers | 187/200 = 0.935 raw and re-scored (no cut fires); vs A s0 4/5 p = 1.00; vs C s0 5/4 p = 1.00 | `results/acc_C_masked_s0.json`, `results/acc_table_C_masked.md` | Chat 3 R1 / grpo/eval_acc.py |  |  |  |
 | 56 | C_masked cosines, L15 neutral p1 / p2 | ·A s0 0.624 / 0.584; ·A s1 0.494 / 0.436; ·C s0 0.320 / 0.268; ·C s1 0.297 / 0.252 | `results/perposition_table_C_masked_cosine.csv` | Chat 3 R1 |  |  |  |
 | 57 | C_masked supervised-token fraction (completion + EOS over selected tokens) | 1,452,261 / 1,999,870 = 0.726 (547,609 prompt tokens masked; 8,792 selected rows) | `results/supervised_fraction_C_masked.json` | Chat 3 R1 / tools/supervised_fraction_C_masked.py |  |  |  |
+| 58 | Decomposition of the C-vs-A gap (corrected claim, 2026-09-05) | 16.63–22.63× = 12.2× loss placement (3.488/0.286) × 1.36–1.85× residual; residual = ‖ΔW‖ 5.844/1.675 = 3.49 (A s0), /1.682 = 3.47 (A s1) ÷ V 0.1252/0.0489 = 2.56, 0.0919/0.0489 = 1.88 → V(A) > V(C_masked) | `results/perposition_table_C_masked.csv`, `results/lora_delta_stats_C_masked.json`, `results/lora_delta_stats.json`, `results/trace_ratio_C_A_seeds.csv` | pod runner; overclaim caught by the independent evaluator |  |  |  |
 
 ## Parts not independently checked
 
